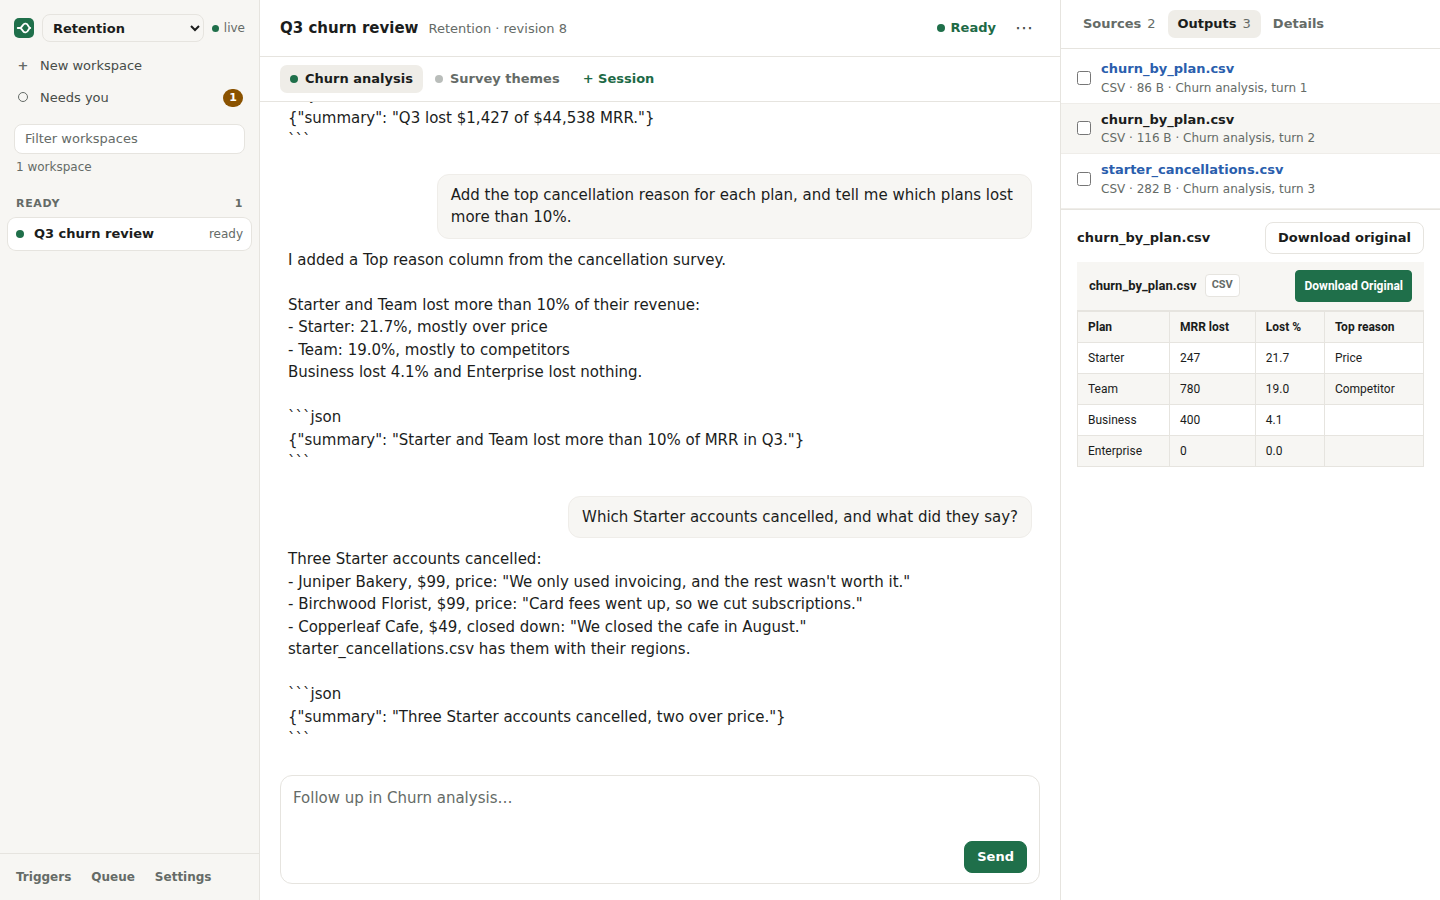
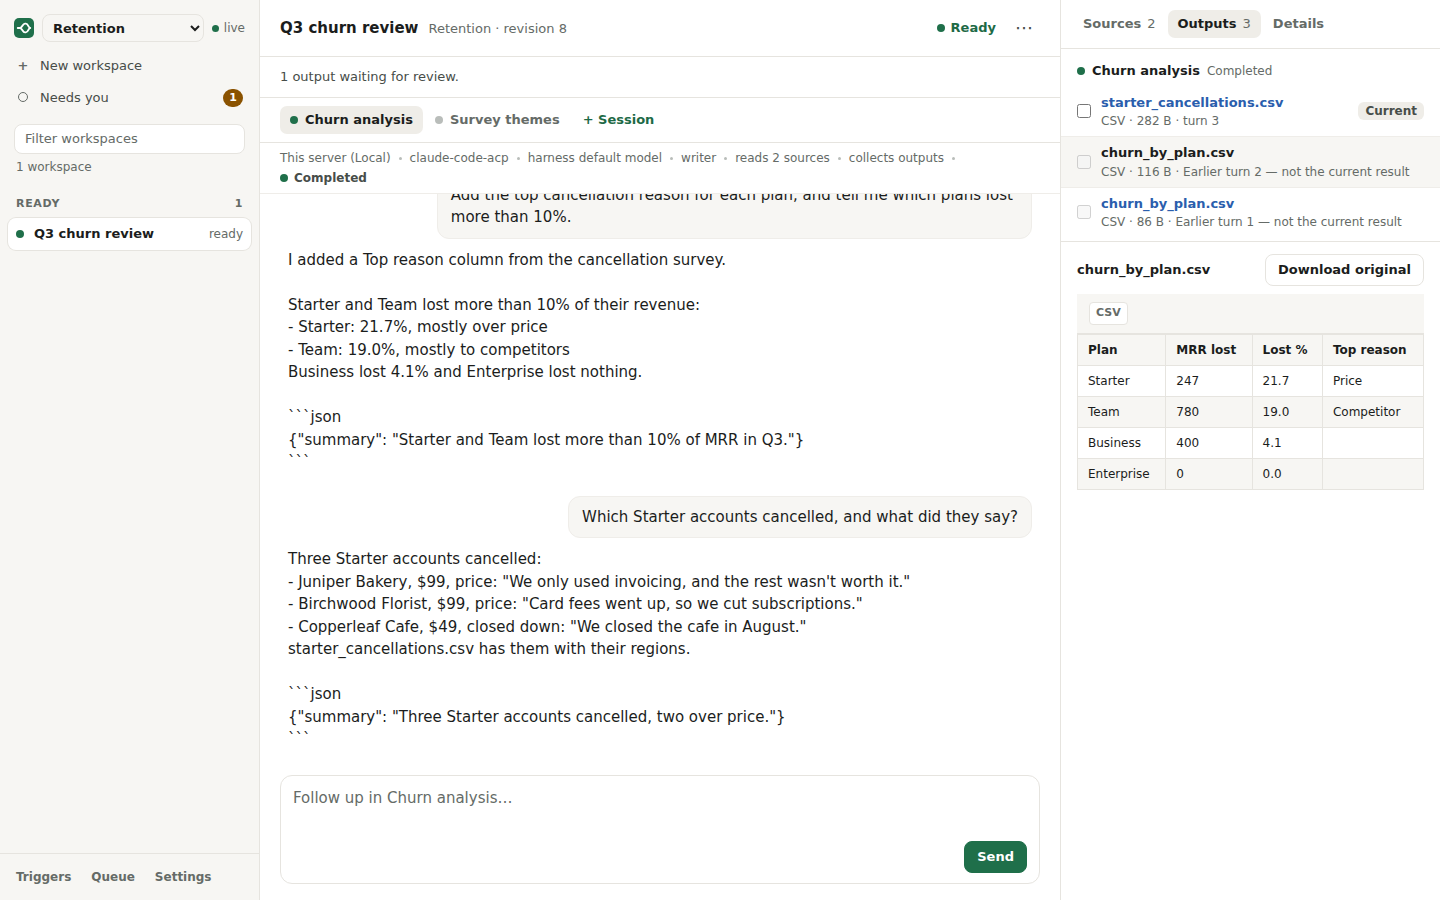
Regenerate the README screenshots for the 0.3.1 console
The workspace image showed the duplicate Download button the console had
before outputs moved into session groups. The generator's preview click
now targets the output row's preview button in its new place
(#outputs-list, data-preview), and all five images are regenerated
from this tree: one Download original, outputs labelled current or
earlier turn, the next-step line and the session's facts line.

diff --git a/tools/readme_screenshots/shoot.js b/tools/readme_screenshots/shoot.js
@@ -66,7 +66,7 @@ async function openBranch(page) {
     await page.locator(`nav#sessions a.session-tab[data-session="${plan.session}"][aria-current="page"]`).waitFor(TURN);
     await page.locator('#convo .turn .agent', { hasText: plan.sessionSays }).waitFor(TURN);
     await page.locator('#tab-outputs').click();
-    await page.locator(`#outputs li[data-artifact="${plan.output}"] button.output-name`).click();
+    await page.locator(`#outputs-list li[data-artifact="${plan.output}"] button[data-preview="output:${plan.output}"]`).click();
     await page.locator('#preview-host .by-artifact-preview table td').first().waitFor(TURN);
     await shoot(page, desktop.problems, 'console-workspace', ['light', 'dark']);
 
